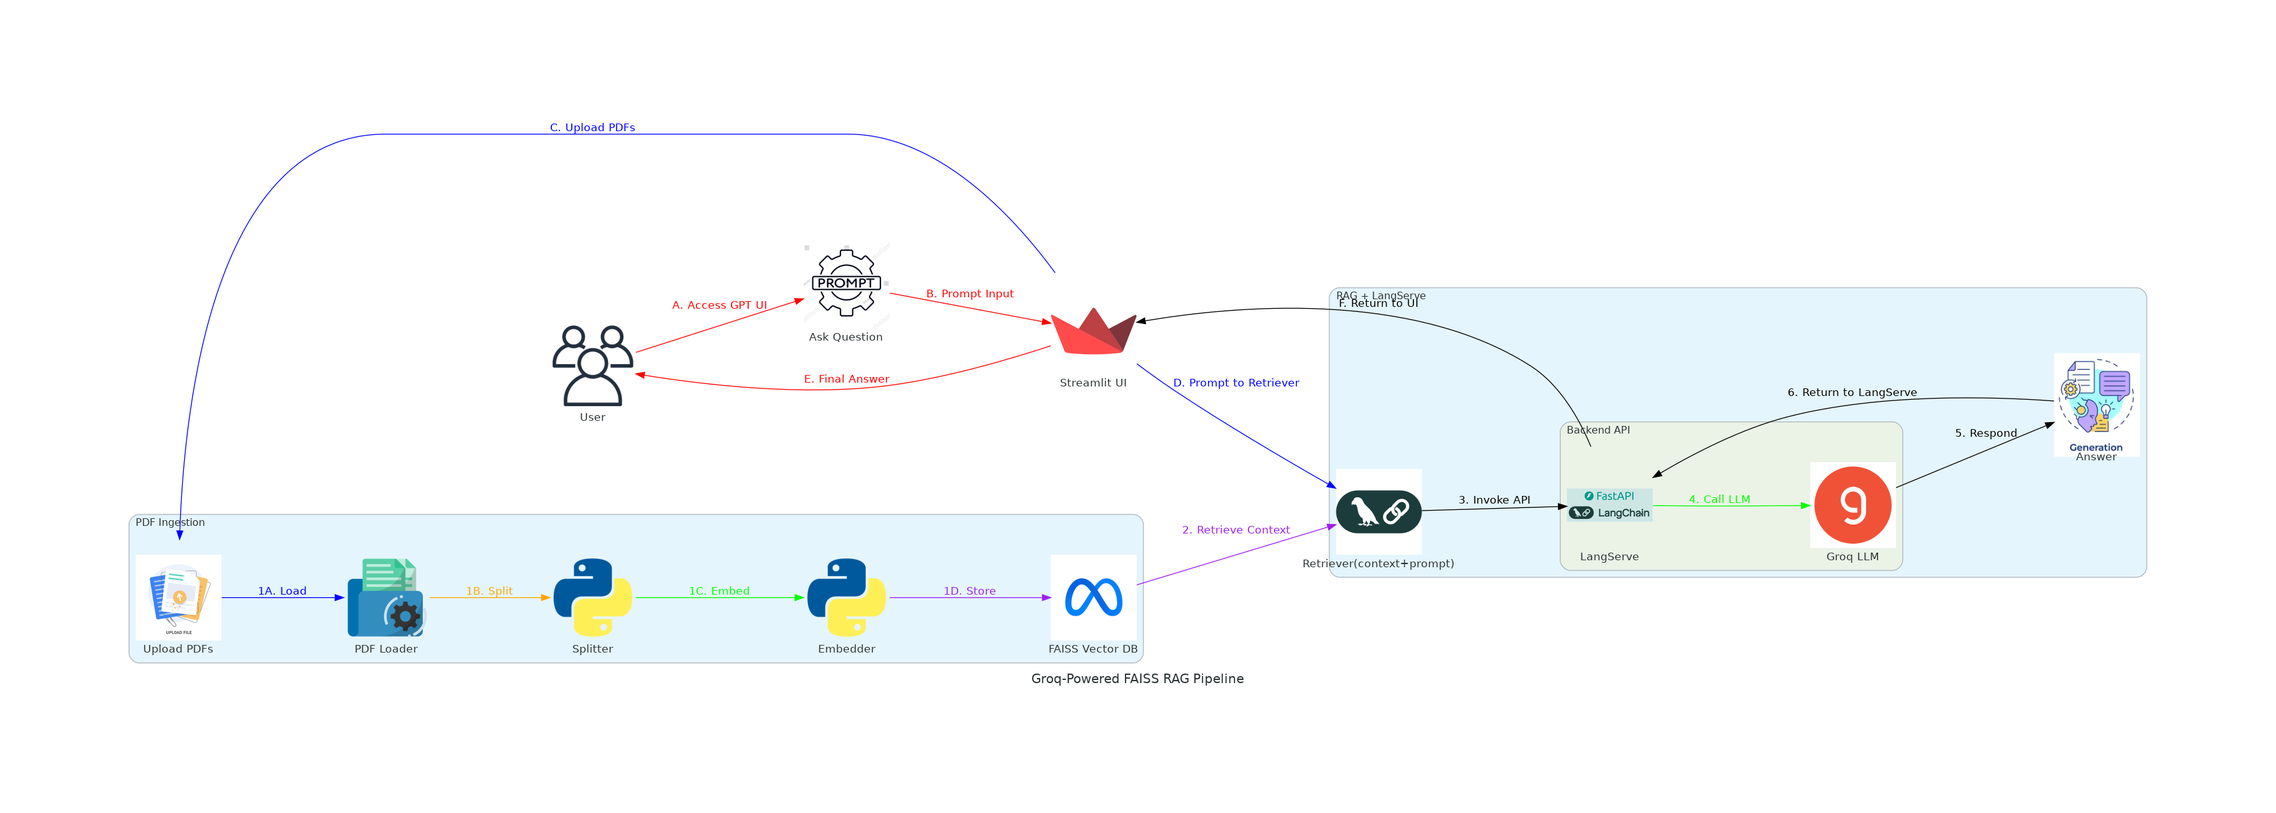
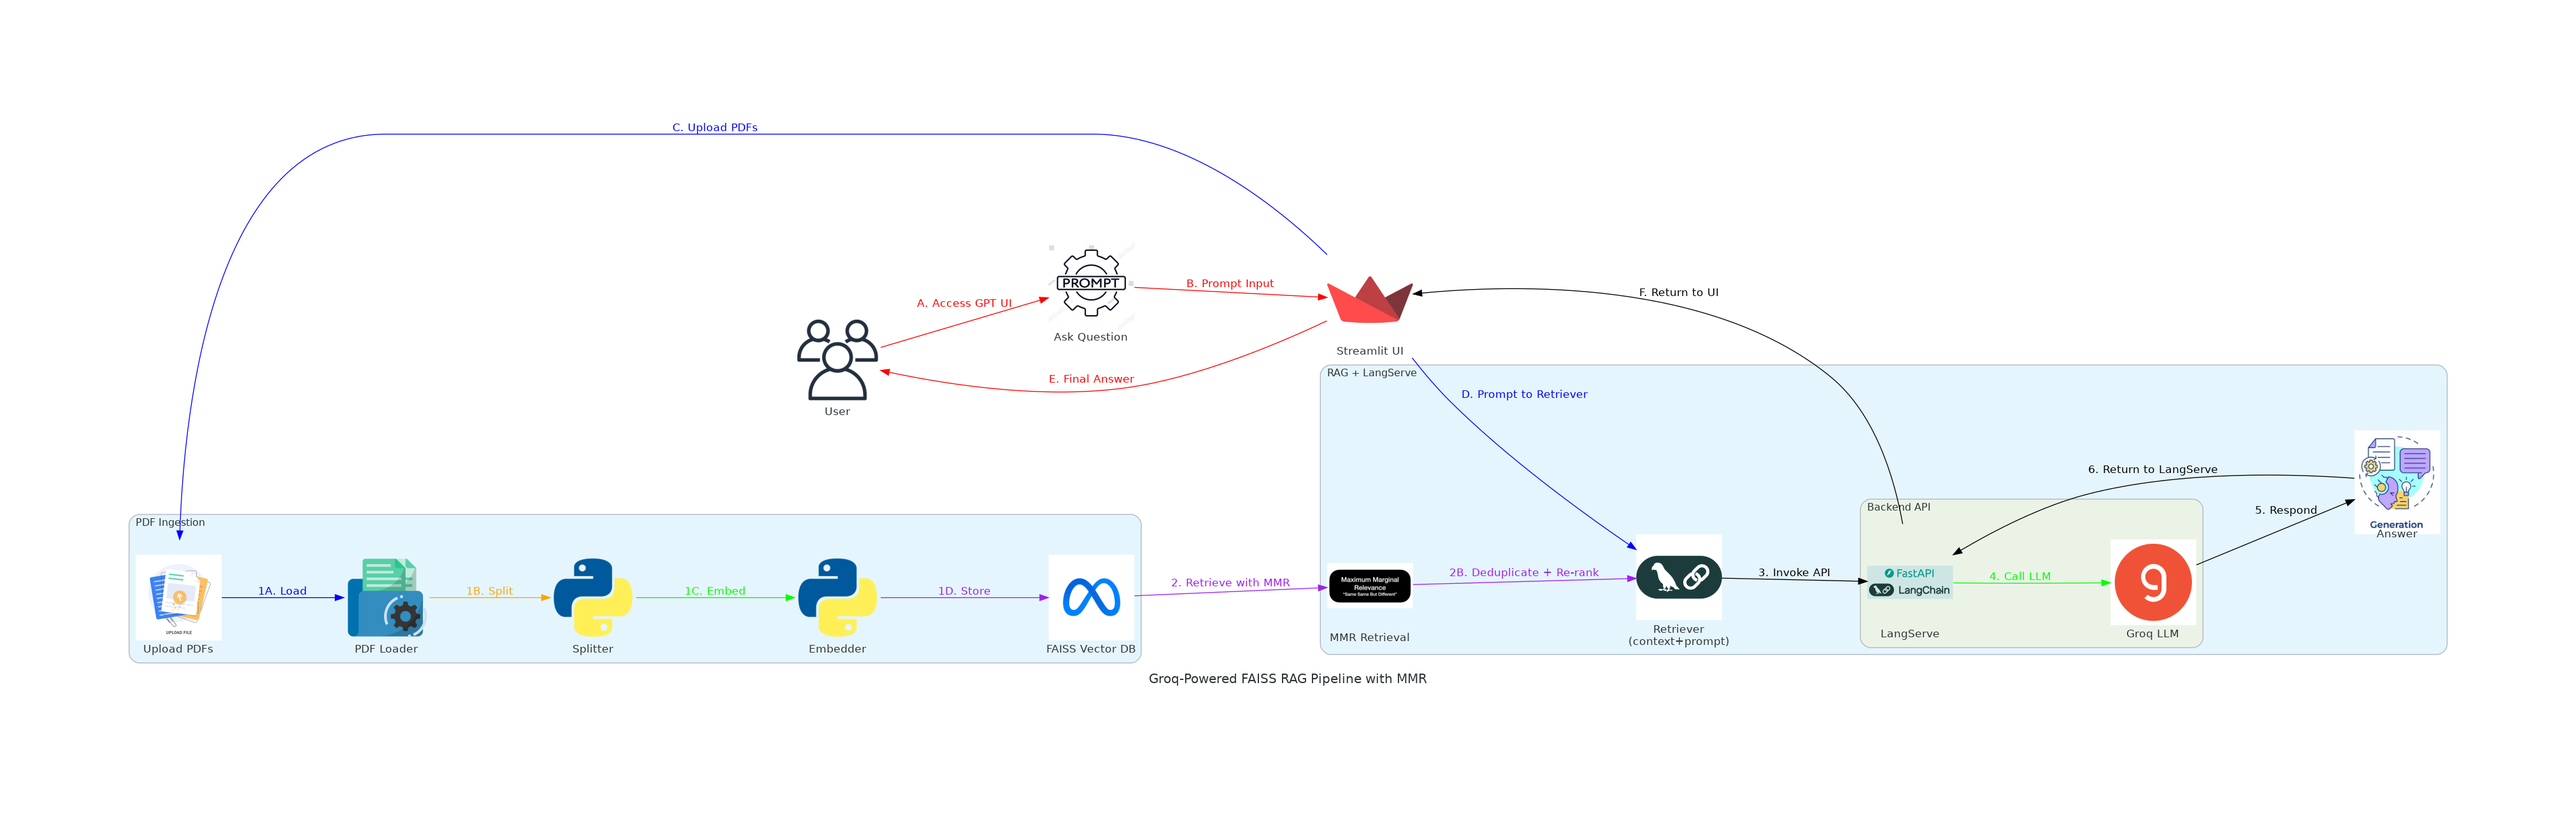
updated flow diagram to add MMR

diff --git a/src/langserve_app/workflow.py b/src/langserve_app/workflow.py
@@ -4,17 +4,17 @@ from diagrams.custom import Custom
 from diagrams.onprem.client import Users
 from diagrams.programming.language import Python
 
-with Diagram("Groq-Powered FAISS RAG Pipeline", direction="LR", show=False, filename="faiss_rag_workflow", graph_attr={"splines": "spline", "nodesep": "1.0", "ranksep": "1.2"}):
+with Diagram("Groq-Powered FAISS RAG Pipeline with MMR", direction="LR", show=False, filename="faiss_rag_workflow", graph_attr={"splines": "spline", "nodesep": "1.0", "ranksep": "1.2"}):
     user = Users("User")
     question_box = Custom("Ask Question", "./icons/prompt.png")
     streamlit = Custom("Streamlit UI", "./icons/streamlit.png")
 
     with Cluster("PDF Ingestion"):
-        uploader = Custom("Upload PDFs","./icons/uploaddocs.png")
-        pdf_loader = Custom("PDF Loader","./icons/pdfloader.png")
+        uploader = Custom("Upload PDFs", "./icons/uploaddocs.png")
+        pdf_loader = Custom("PDF Loader", "./icons/pdfloader.png")
         splitter = Python("Splitter")
         embedder = Python("Embedder")
-        faiss_db = Custom("FAISS Vector DB","./icons/faiss.png")
+        faiss_db = Custom("FAISS Vector DB", "./icons/faiss.png")
 
         uploader >> Edge(color="blue", label="1A. Load", fontcolor="blue") >> pdf_loader \
                 >> Edge(color="orange", label="1B. Split", fontcolor="orange") >> splitter \
@@ -22,7 +22,8 @@ with Diagram("Groq-Powered FAISS RAG Pipeline", direction="LR", show=False, file
                 >> Edge(color="purple", label="1D. Store", fontcolor="purple") >> faiss_db
 
     with Cluster("RAG + LangServe"):
-        retriever = Custom("Retriever(context+prompt)", "./icons/langchain.png")
+        mmr_retriever = Custom("MMR Retrieval", "./icons/mmr.png")
+        retriever = Custom("Retriever\n(context+prompt)", "./icons/langchain.png")
 
         with Cluster("Backend API", direction="TB"):
             langserve = Custom("LangServe", "./icons/langserve.png")
@@ -30,7 +31,9 @@ with Diagram("Groq-Powered FAISS RAG Pipeline", direction="LR", show=False, file
 
         answer = Custom("Answer", "./icons/answer.png")
 
-        faiss_db >> Edge(color="purple", label="2. Retrieve Context", fontcolor="purple") >> retriever
+        faiss_db >> Edge(color="purple", label="2. Retrieve with MMR", fontcolor="purple") >> mmr_retriever \
+                 >> Edge(color="purple", label="2B. Deduplicate + Re-rank", fontcolor="purple") >> retriever
+
         retriever >> Edge(color="black", label="3. Invoke API", fontcolor="black") >> langserve 
         langserve >> Edge(color="green", label="4. Call LLM", fontcolor="green") >> groq_llm
         groq_llm >> Edge(color="black", label="5. Respond", fontcolor="black") >> answer
